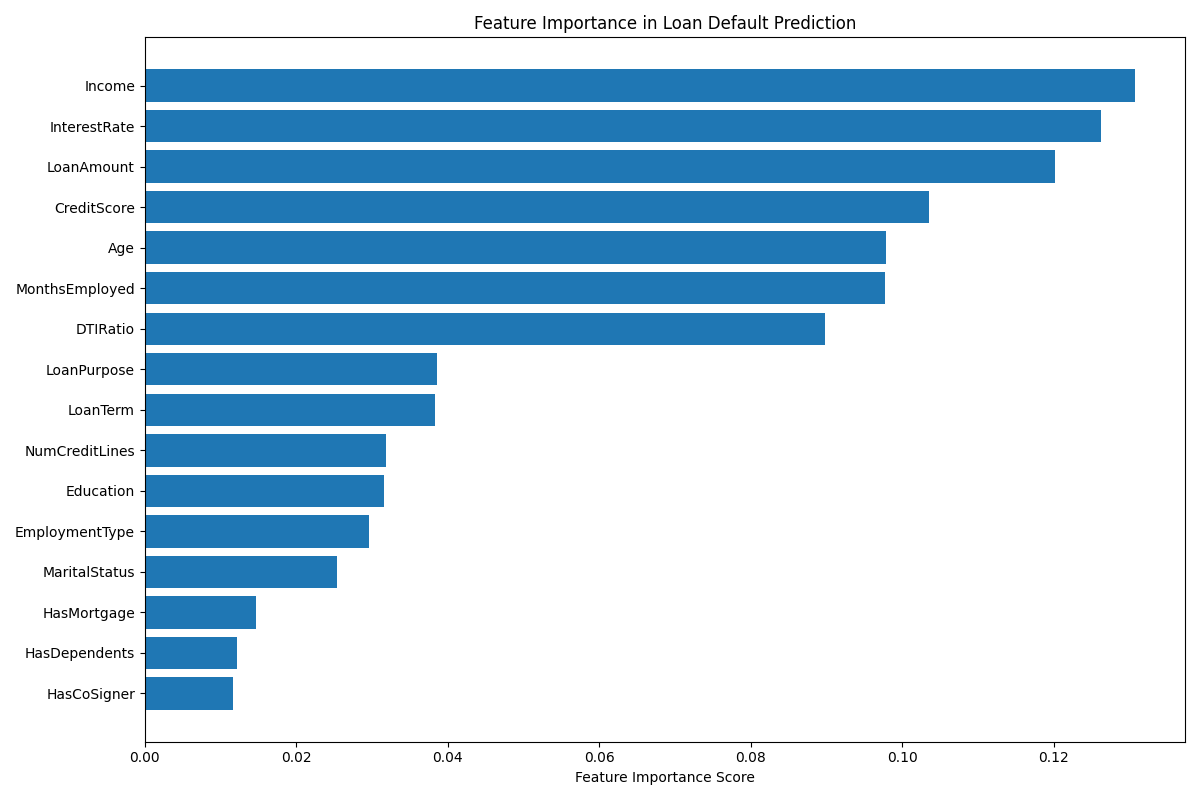
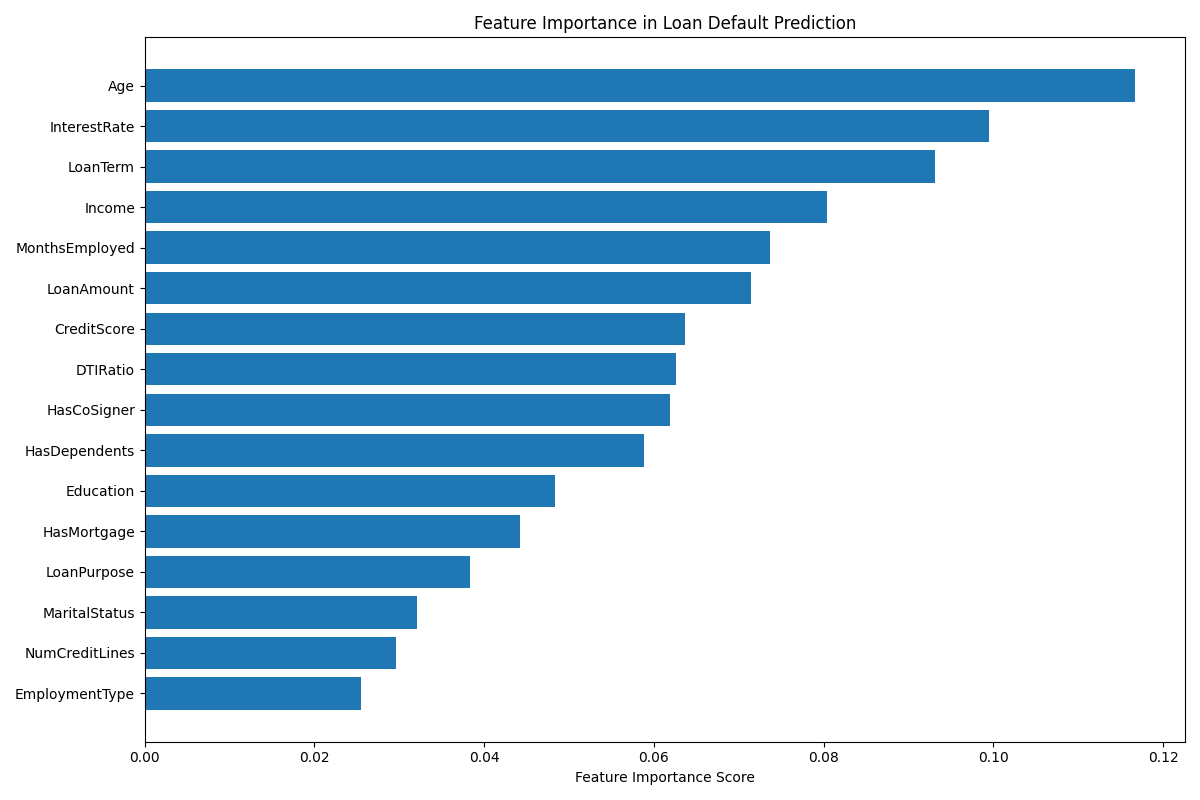
Modify model to improve recall.

diff --git a/backend/src/model_training.py b/backend/src/model_training.py
@@ -5,6 +5,7 @@ from sklearn.preprocessing import label_binarize, LabelEncoder
 from sklearn.model_selection import train_test_split
 from sklearn.ensemble import RandomForestClassifier
 from sklearn.metrics import accuracy_score, precision_score, recall_score, f1_score, confusion_matrix, ConfusionMatrixDisplay
+from imblearn.over_sampling import SMOTE
 from joblib import dump
 from backend.src.config import *
 
@@ -38,8 +39,12 @@ y = loan_df['Default']
 # split into training and testing data
 X_train, X_test, y_train, y_test = train_test_split(X, y, test_size=0.3, random_state=1)
 
+# apply SMOTE to the training data
+smote = SMOTE(random_state=1)
+X_train, y_train = smote.fit_resample(X_train, y_train)
+
 # define Random Forest model
-training_rf_model = RandomForestClassifier(random_state=1)
+training_rf_model = RandomForestClassifier(random_state=1, class_weight="balanced")
 
 # fit model
 training_rf_model.fit(X_train, y_train)
@@ -47,10 +52,12 @@ training_rf_model.fit(X_train, y_train)
 # ---- MODEL EVALUATION ----
 
 # make Default predictions with model
-y_pred = training_rf_model.predict(X_test)
+y_pred_probs = training_rf_model.predict_proba(X_test)[:, 1]
+y_pred = (y_pred_probs > 0.3).astype(int)
 
 # generate confusion matrix
 con_matrix = confusion_matrix(y_test, y_pred)
+print(con_matrix)
 
 # evaluation metrics
 accuracy = accuracy_score(y_test, y_pred)
@@ -61,7 +68,7 @@ f1 = f1_score(y_test, y_pred)
 # generate confusion matrix plot
 fig, ax = plt.subplots(figsize=(12, 8))
 display = ConfusionMatrixDisplay(confusion_matrix=con_matrix, display_labels=training_rf_model.classes_)
-display.plot(cmap='Blues', colorbar=False)
+display.plot(cmap='Blues', colorbar=False, values_format='d')
 
 # create space to the right of the confusion matrix
 plt.subplots_adjust(left=0.1, right=0.65)
@@ -109,8 +116,12 @@ plt.close()
 
 # ---- SAVE MODEL AS JOBLIB FILE ----
 
+# apply SMOTE to the entire dataset
+smote_final = SMOTE(random_state=1)
+X, y = smote_final.fit_resample(X, y)
+
 # create new model to train with 100 percent of data
-final_rf_model = RandomForestClassifier(random_state=1)
+final_rf_model = RandomForestClassifier(random_state=1, class_weight="balanced")
 final_rf_model.fit(X, y)
 
 # save final model as a joblib file

diff --git a/backend/src/predict.py b/backend/src/predict.py
@@ -27,10 +27,11 @@ def predict_default(loan_applicant):
         'HasCoSigner': [loan_applicant.has_co_signer]
     })
 
-    # binary prediction (default or no default)
-    default_prediction = rf_model.predict(applicant_df)[0]
-
     # probability the applicant will default
-    default_probability = rf_model.predict_proba(applicant_df)[0][1]
+    default_probability = rf_model.predict_proba(applicant_df)[0][1];
+
+    # predict using probability threshold
+    threshold = 0.3
+    default_prediction = default_probability > threshold
 
     return default_prediction, default_probability

diff --git a/backend/src/app.py b/backend/src/app.py
@@ -50,4 +50,4 @@ def model_default_predict(loan_applicant: LoanApplicant):
     }
 
 # mount static files for frontend image loading
-app.mount("/visuals", StaticFiles(directory=VISUALS_FILE_PATH), name="visuals")
+app.mount("/api/visuals", StaticFiles(directory=VISUALS_FILE_PATH), name="visuals")
